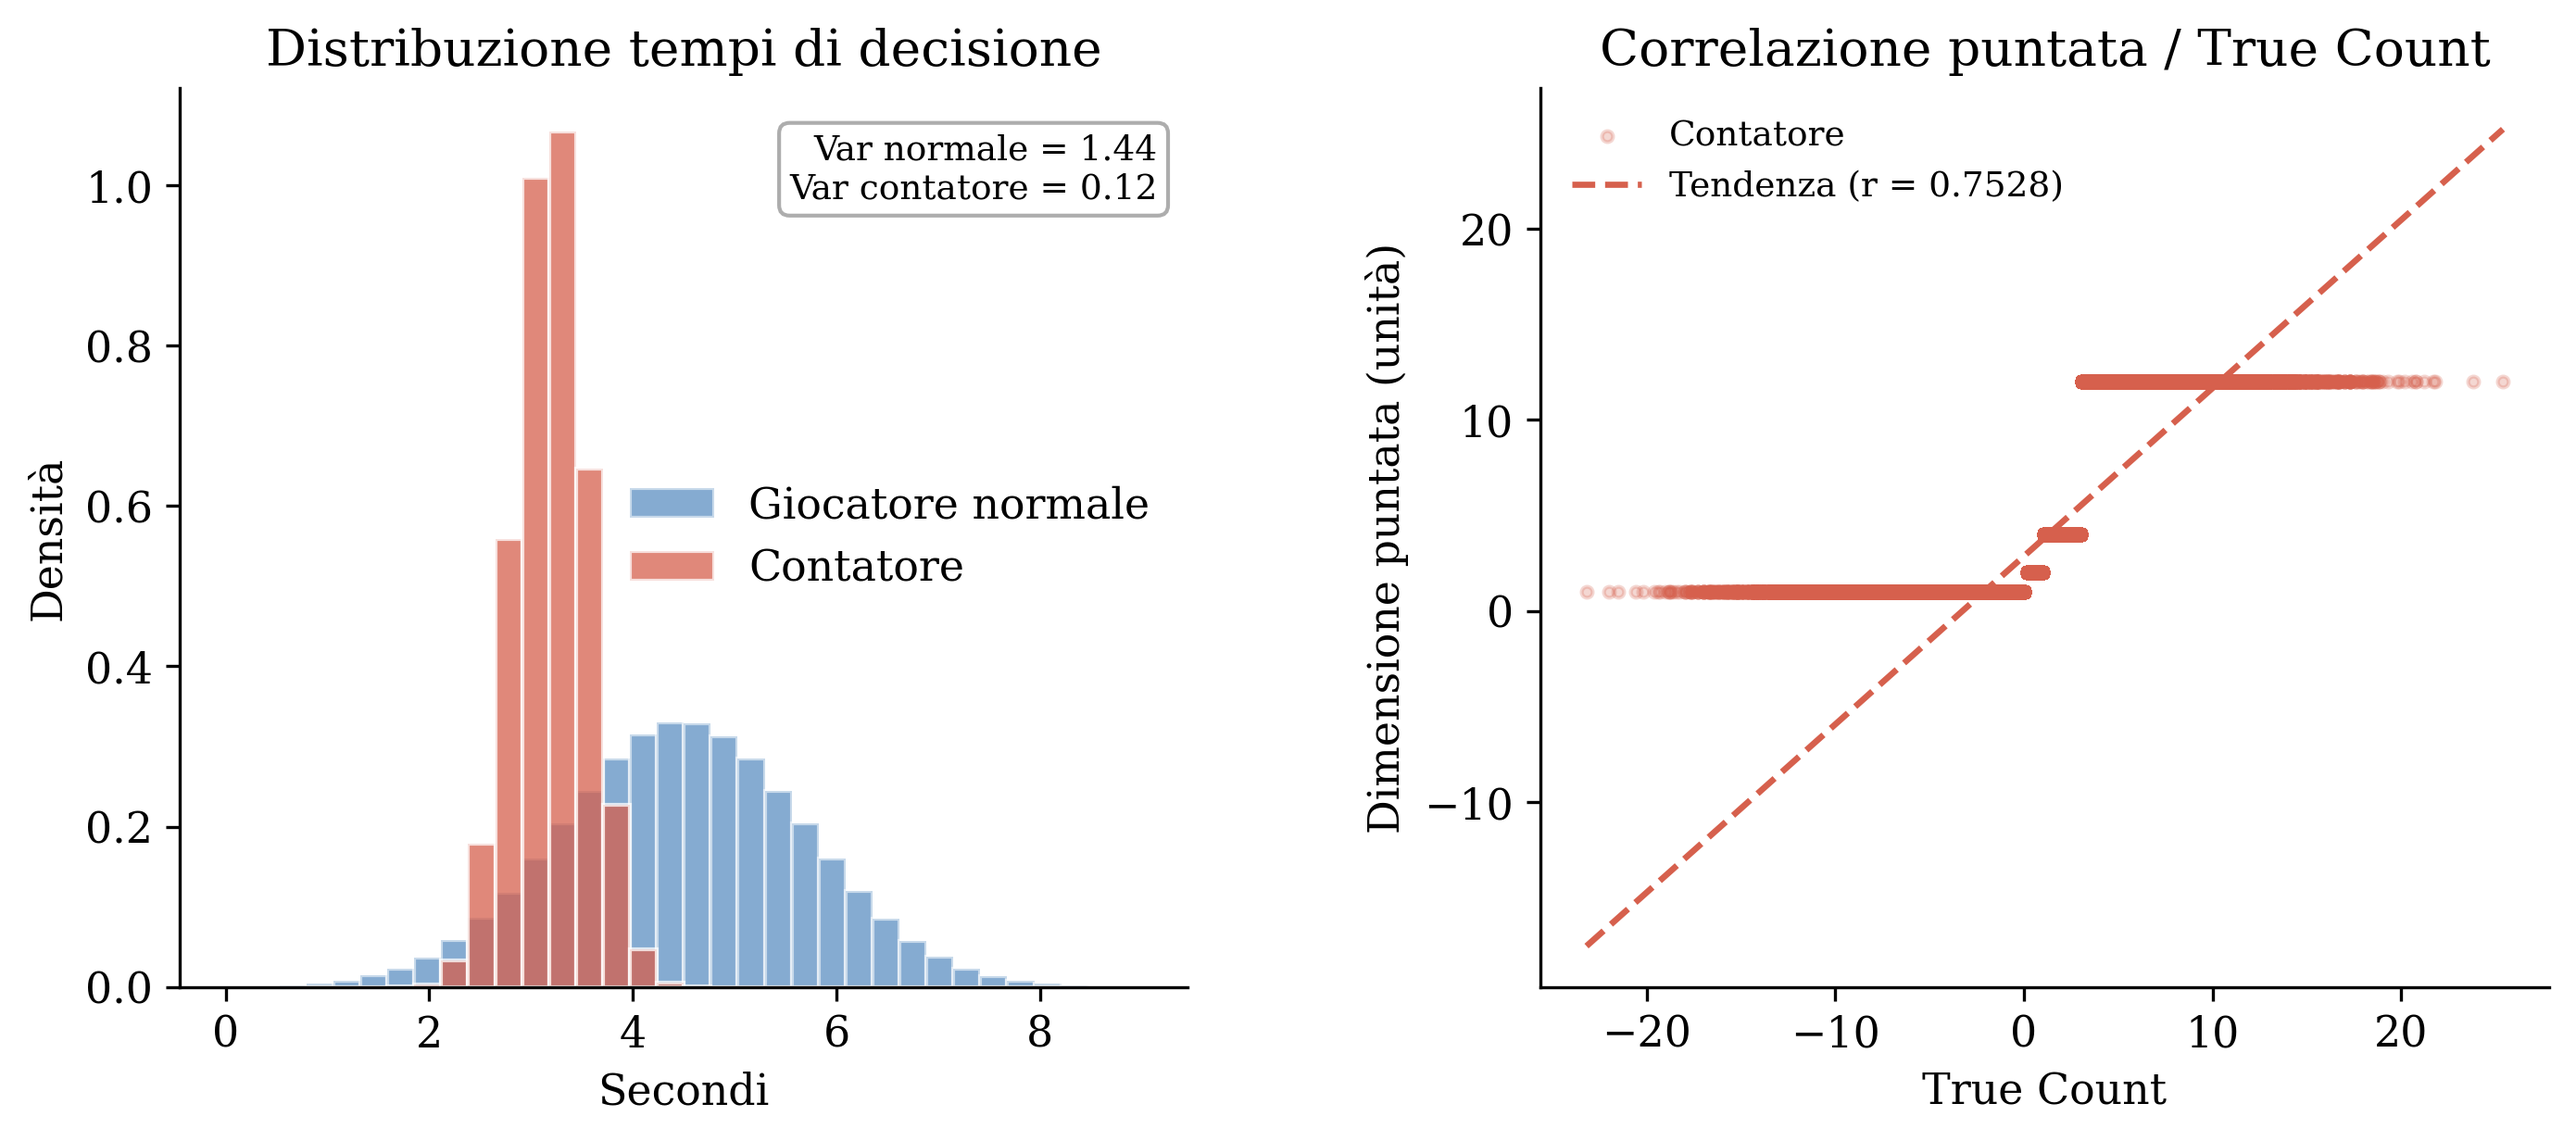
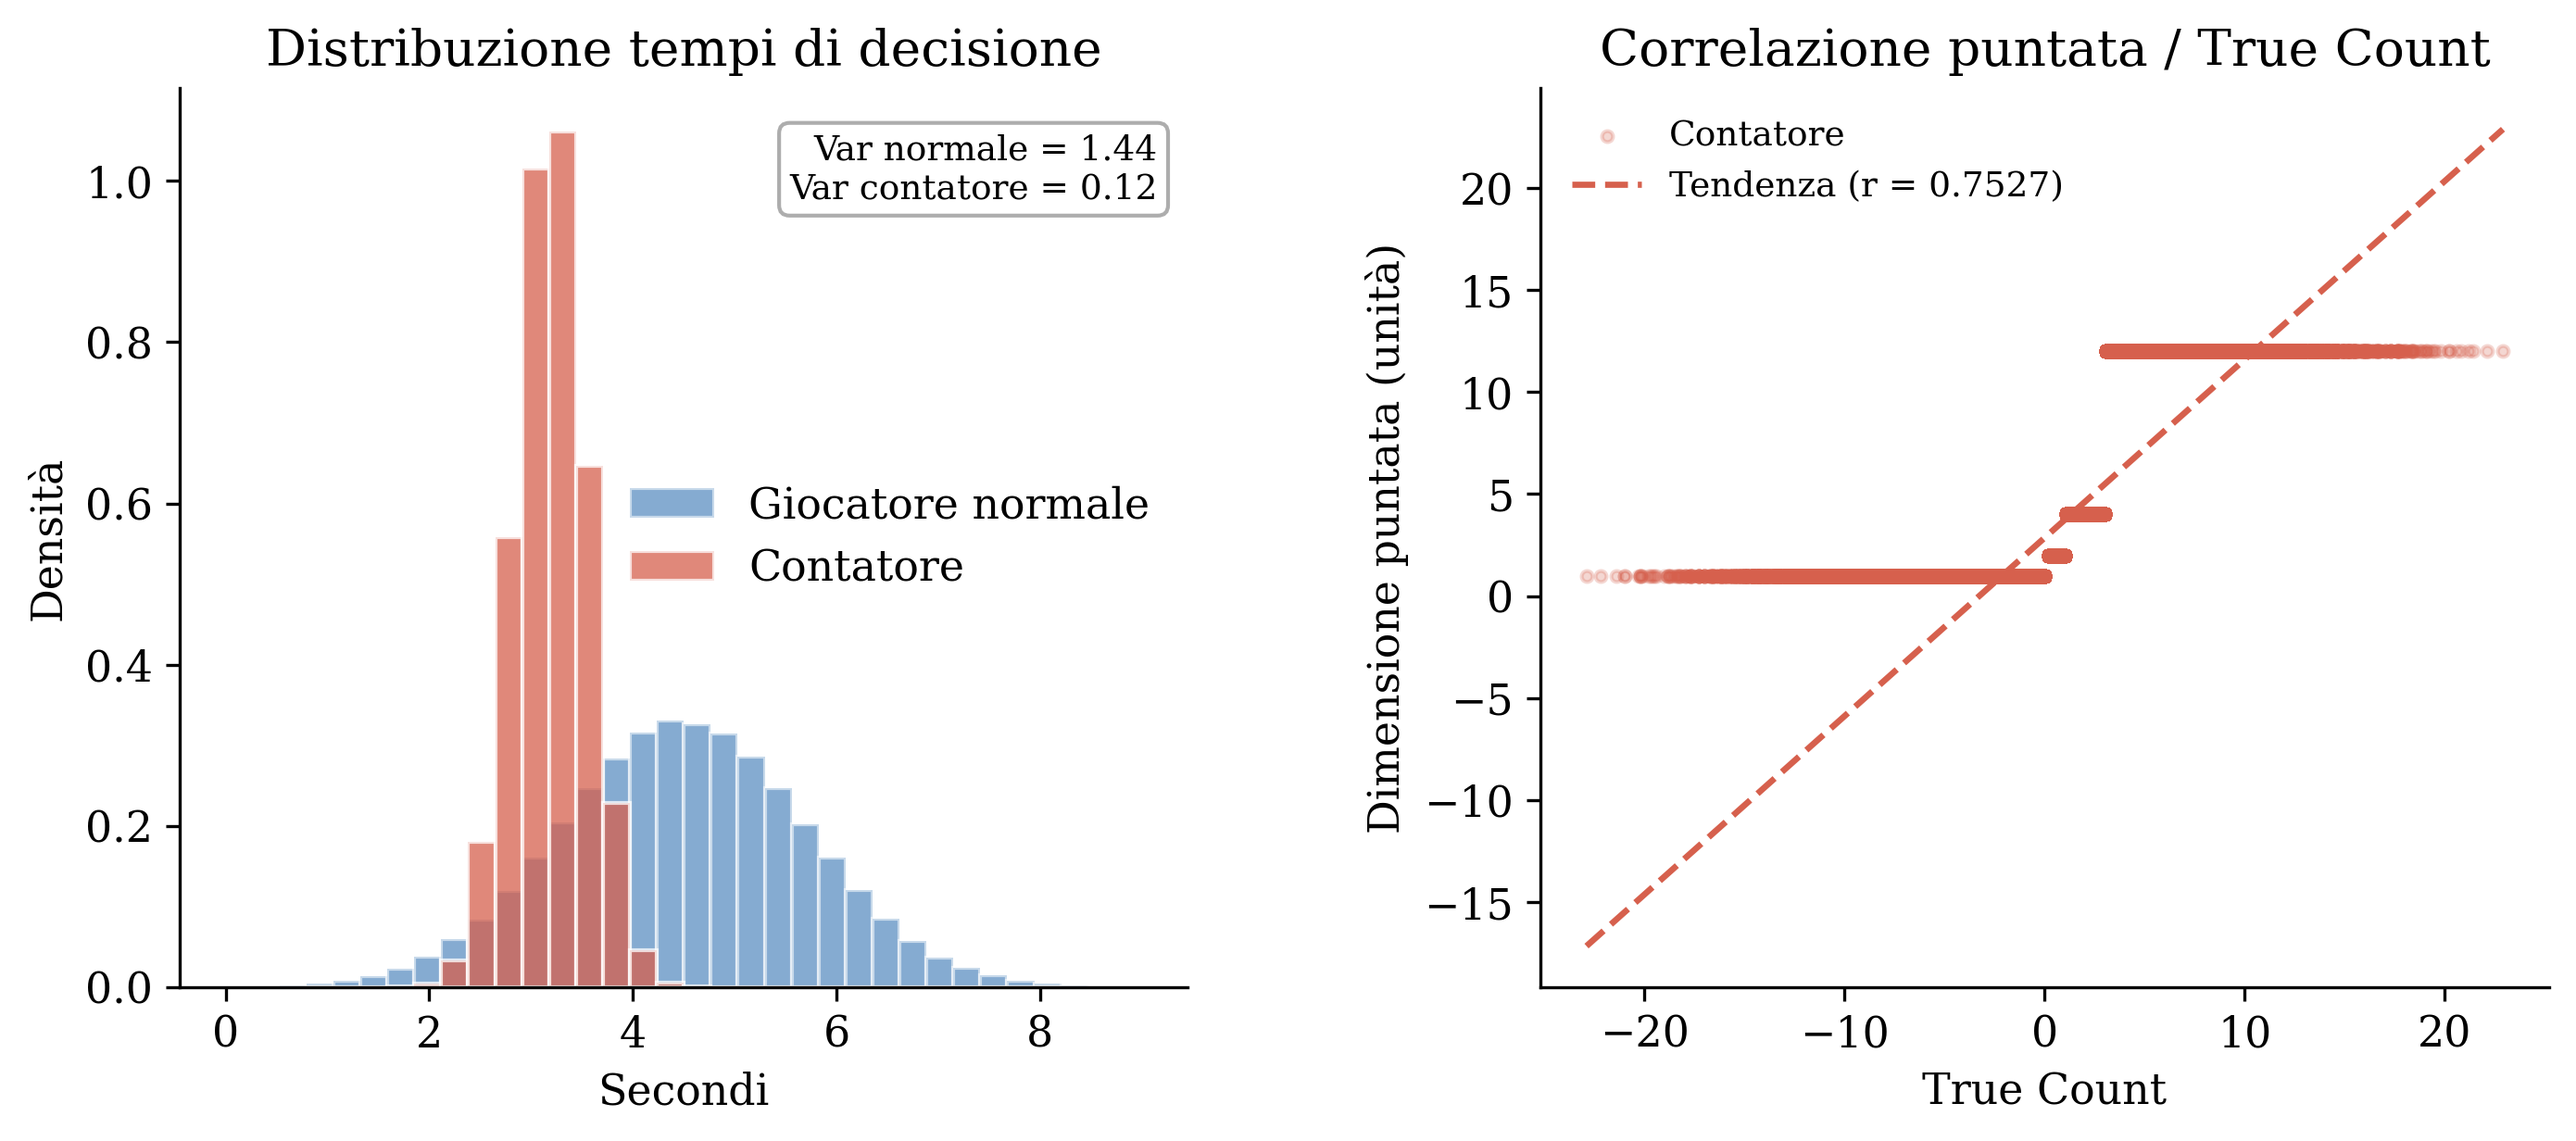
Aggiorna immagini e fix salvataggio in behaviouralProfiler

diff --git a/behaviouralProfiler.py b/behaviouralProfiler.py
@@ -43,6 +43,9 @@ if __name__ == "__main__":
     import matplotlib
     matplotlib.use("Agg")  # salva su file, non apre finestra
     import matplotlib.pyplot as plt
+    import os
+    OUT = os.path.join(os.path.dirname(os.path.abspath(__file__)), "images")
+    os.makedirs(OUT, exist_ok=True)
 
     plt.rcParams.update({
         "font.family": "serif",
@@ -118,7 +121,7 @@ if __name__ == "__main__":
     ax2.set_ylabel("Dimensione puntata (unità)")
     ax2.legend(frameon=False, fontsize=9)
 
-    fig.savefig("images/pearson.png", dpi=300, bbox_inches="tight")
+    fig.savefig(os.path.join(OUT, "pearson.png"), dpi=300, bbox_inches="tight")
     print("Salvato: images/pearson.png")
 
     # -- FIGURA 2: camou.png 
@@ -140,5 +143,7 @@ if __name__ == "__main__":
     ax.set_title("Degradazione della correlazione al crescere del camouflage")
     ax.set_ylim(-0.05, 1.05)
 
-    fig2.savefig("images/camou.png", dpi=300, bbox_inches="tight")
+    fig2.savefig(os.path.join(OUT, "camou.png"), dpi=300, bbox_inches="tight")
     print("Salvato: images/camou.png")
+
+    
